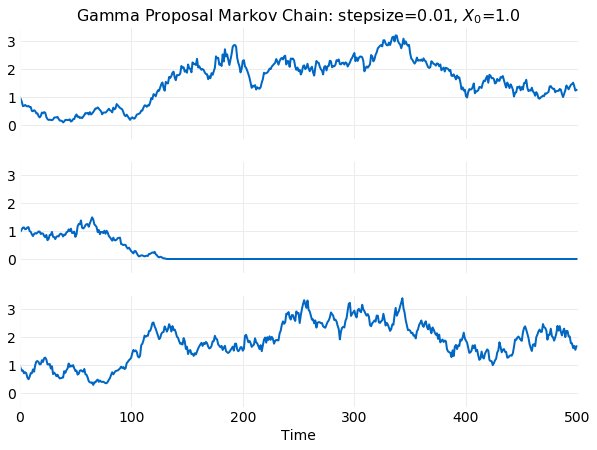
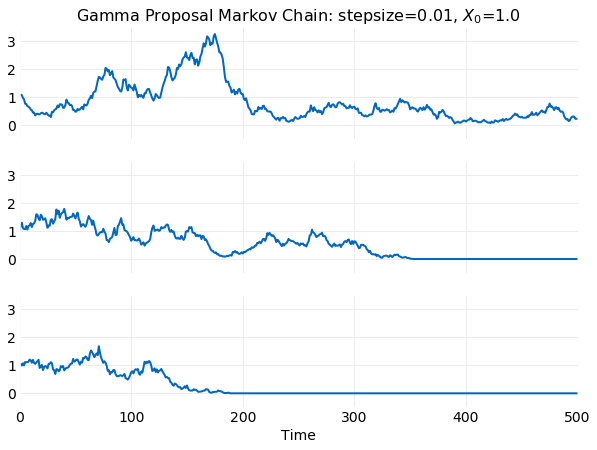
more plot updates

diff --git a/glyfish/gplot.py b/glyfish/gplot.py
@@ -1,13 +1,14 @@
 import numpy
 from matplotlib import pyplot
 from glyfish import stats
+from glyfish import config
 
-def pdf_samples(title, pdf, samples, xrange=None, ylimit=None):
-    figure, axis = pyplot.subplots(figsize=(12, 5))
-    axis.set_xlabel("X")
-    axis.set_ylabel("PDF")
+def pdf_samples(title, pdf, samples, post, plot, xrange=None, ylimit=None):
+    figure, axis = pyplot.subplots(figsize=(10, 7))
+    axis.set_xlabel(r"$X$")
     axis.set_title(title)
-    _, bins, _ = axis.hist(samples, 50, density=True, color="#336699", alpha=0.6, label=f"Sampled Distribution", zorder=5)
+    axis.set_prop_cycle(config.distribution_sample_cycler)
+    _, bins, _ = axis.hist(samples, 50, rwidth=0.8, density=True, label=f"Samples", zorder=5)
     if xrange is None:
         delta = (bins[-1] - bins[0]) / 500.0
         xrange = numpy.arange(bins[0], bins[-1], delta)
@@ -15,21 +16,24 @@ def pdf_samples(title, pdf, samples, xrange=None, ylimit=None):
     axis.set_xlim([xrange[0], xrange[-1]])
     if ylimit is not None:
         axis.set_ylim(ylimit)
-    axis.plot(xrange, sample_distribution, color="#A60628", label=f"Sampled Function", zorder=6)
+    axis.plot(xrange, sample_distribution, label=f"Target PDF", zorder=6)
     axis.legend()
+    config.save_post_asset(figure, post, plot)
 
 
-def acceptance(title, x, y, xlim):
-    figure, axis = pyplot.subplots(figsize=(12, 5))
+def acceptance(title, x, y, xlim, post, plot):
+    figure, axis = pyplot.subplots(figsize=(10, 7))
     axis.set_xlabel("Step Size")
     axis.set_ylabel("Acceptance %")
     axis.set_title(title)
     axis.set_xlim(xlim)
-    axis.set_ylim([0.1, 200.0])
-    axis.loglog(x, y, zorder=5, marker='o', color="#336699", markersize=15.0, linestyle="None", markeredgewidth=1.0, alpha=0.5, label="Simulation")
+    axis.set_ylim([2.0, 200.0])
+    axis.loglog(x, y, zorder=5, marker='o', markersize=15.0, linestyle="None", markeredgewidth=1.0, alpha=0.5, label="Simulation")
+    config.save_post_asset(figure, post, plot)
 
 
-def time_series(title, samples, time, ylim):
+
+def time_series(title, samples, time, ylim, post, plot):
     nplots = len(samples)
     figure, axis = pyplot.subplots(figsize=(12, 3))
     axis.set_title(title)
@@ -37,20 +41,22 @@ def time_series(title, samples, time, ylim):
     axis.set_xlim([time[0], time[-1] + 1])
     axis.set_ylim(ylim)
     axis.plot(time, samples, lw="1")
+    config.save_post_asset(figure, post, plot)
 
-def steps_size_time_series(title, samples, time, stepsize, acceptance, ylim, text_pos):
+def steps_size_time_series(title, samples, time, stepsize, acceptance, ylim, text_pos, post, plot):
     nplots = len(samples)
-    figure, axis = pyplot.subplots(nrows=nplots, ncols=1, sharex=True, figsize=(12, 3*nplots))
+    figure, axis = pyplot.subplots(nrows=nplots, ncols=1, sharex=True, figsize=(10, 3*nplots))
     axis[0].set_title(title)
     axis[-1].set_xlabel("Time")
-    bbox = dict(boxstyle='square,pad=1', facecolor="#FFFFFF", edgecolor="lightgrey")
+    bbox = dict(boxstyle='square,pad=1', facecolor="#FFFFFF", edgecolor="white", alpha=0.75)
     for i in range(nplots):
         axis[i].set_xlim([time[0], time[-1] + 1])
         axis[i].set_ylim(ylim)
-        axis[i].plot(time, samples[i], lw="1")
-        axis[i].text(text_pos[0], text_pos[1], f"stepsize={format(stepsize[i], '2.3')}, accepted={format(acceptance[i], '2.0f')}%", fontsize=13, bbox=bbox)
+        axis[i].plot(time, samples[i], lw="2")
+        axis[i].text(text_pos[0], text_pos[1], f"stepsize={format(stepsize[i], '2.3')}\naccepted={format(acceptance[i], '2.0f')}%", fontsize=13, bbox=bbox)
+    config.save_post_asset(figure, post, plot)
 
-def step_size_mean(title, samples, time, μ, stepsize):
+def step_size_mean(title, samples, time, μ, stepsize, post, plot):
     nplot = len(samples)
     nsample = len(time)
     figure, axis = pyplot.subplots(figsize=(12, 6))
@@ -62,8 +68,9 @@ def step_size_mean(title, samples, time, μ, stepsize):
     for i in range(nplot):
         axis.semilogx(time, stats.cummean(samples[i]), label=f"stepsize={format(stepsize[i], '2.3f')}", lw=2)
     axis.legend()
+    config.save_post_asset(figure, post, plot)
 
-def step_size_sigma(title, samples, time, σ, stepsize):
+def step_size_sigma(title, samples, time, σ, stepsize, post, plot):
     nplot = len(samples)
     nsample = len(time)
     figure, axis = pyplot.subplots(figsize=(12, 6))
@@ -75,8 +82,9 @@ def step_size_sigma(title, samples, time, σ, stepsize):
     for i in range(nplot):
         axis.semilogx(time, stats.cumsigma(samples[i]), label=f"stepsize={format(stepsize[i], '2.3f')}", lw=2)
     axis.legend()
+    config.save_post_asset(figure, post, plot)
 
-def step_size_autocor(title, samples, stepsize, npts):
+def step_size_autocor(title, samples, stepsize, npts, post, plot):
     nplot = len(samples)
     figure, axis = pyplot.subplots(figsize=(12, 9))
     axis.set_title(title)
@@ -86,3 +94,4 @@ def step_size_autocor(title, samples, stepsize, npts):
         ac = stats.autocorrelate(samples[i])
         axis.plot(range(npts), numpy.real(ac[:npts]), label=f"stepsize={format(stepsize[i], '2.3f')}")
     axis.legend()
+    config.save_post_asset(figure, post, plot)

diff --git a/hydrogen_notebooks/mcmc/metropolis_hastings/weibull_target/gamma_proposal.py b/hydrogen_notebooks/mcmc/metropolis_hastings/weibull_target/gamma_proposal.py
@@ -51,51 +51,51 @@ acceptance = 100.0*all_accepted/nsample
 
 # %%
 
-title = f"Weibull Distribution, Gamma Proposal, k={k}, λ={λ}"
-gplot.acceptance(title, stepsize, acceptance, [0.0005, 12.0])
+title = f"Weibull Distribution, Gamma Proposal: k={k}, λ={λ}"
+gplot.acceptance(title, stepsize, acceptance, [0.0005, 20.0], "metropolis_hastings_sampling", "gamma_proposal_acceptance")
 
 # %%
 
 sample_idx = 5
-title = f"Weibull Distribution, Gamma Proposal, Accepted {format(acceptance[sample_idx], '2.0f')}%, stepsize={format(stepsize[sample_idx], '2.3f')}"
-gplot.pdf_samples(title, target_pdf, all_samples[sample_idx])
+title = f"Weibull Distribution, Gamma Proposal: Accepted {format(acceptance[sample_idx], '2.0f')}%, stepsize={format(stepsize[sample_idx], '2.3f')}"
+gplot.pdf_samples(title, target_pdf, all_samples[sample_idx], "metropolis_hastings_sampling", "gamma_proposal_sampled_pdf-98")
 
 # %%
 
 sample_idx = 13
-title = f"Weibull Distribution, Gamma Proposal, Accepted {format(acceptance[sample_idx], '2.0f')}%, stepsize={format(stepsize[sample_idx], '2.3f')}"
-gplot.pdf_samples(title, target_pdf, all_samples[sample_idx])
+title = f"Weibull Distribution, Gamma Proposal: Accepted {format(acceptance[sample_idx], '2.0f')}%, stepsize={format(stepsize[sample_idx], '2.3f')}"
+gplot.pdf_samples(title, target_pdf, all_samples[sample_idx], "metropolis_hastings_sampling", "gamma_proposal_sampled_pdf-80")
 
 # %%
 
 sample_idx = 17
-title = f"Weibull Distribution, Gamma Proposal, Accepted {format(acceptance[sample_idx], '2.0f')}%, stepsize={format(stepsize[sample_idx], '2.3f')}"
-gplot.pdf_samples(title, target_pdf, all_samples[sample_idx])
+title = f"Weibull Distribution, Gamma Proposal: Accepted {format(acceptance[sample_idx], '2.0f')}%, stepsize={format(stepsize[sample_idx], '2.3f')}"
+gplot.pdf_samples(title, target_pdf, all_samples[sample_idx], "metropolis_hastings_sampling", "gamma_proposal_sampled_pdf-48")
 
 # %%
 
-sample_idx = 23
+sample_idx = 20
 title = f"Weibull Distribution, Gamma Proposal, Accepted {format(acceptance[sample_idx], '2.0f')}%, stepsize={format(stepsize[sample_idx], '2.3f')}"
-gplot.pdf_samples(title, target_pdf, all_samples[sample_idx])
+gplot.pdf_samples(title, target_pdf, all_samples[sample_idx], "metropolis_hastings_sampling", "gamma_proposal_sampled_pdf-07")
 
 # %%
 
-sample_idx = [5, 13, 17, 23]
+sample_idx = [5, 13, 20]
 title = f"Weibull Distribution Samples, Gamma Proposal, Stepsize comparison"
 time = range(51000, 51500)
 time_series_samples = [all_samples[i][time] for i in sample_idx]
 time_series_stepsize = stepsize[sample_idx]
 time_series_acceptance = acceptance[sample_idx]
-gplot.steps_size_time_series(title, time_series_samples, time, time_series_stepsize, time_series_acceptance, [0.0, 1.75], [51010, 0.185])
+gplot.steps_size_time_series(title, time_series_samples, time, time_series_stepsize, time_series_acceptance, [-0.2, 1.75], [51010, 0.15], "metropolis_hastings_sampling", "gamma_proposal_time_series_stepsize_comparison")
 
 # %%
 
 μ = stats.weibull_mean(5.0, 1.0)
-title = f"Weibull Distribution, Gamma Proposal, sample μ convergence stepsize comparison"
+title = f"Weibull Distribution, Gamma Proposal, Sample μ Convergence"
 time = range(nsample)
 mean_samples = [all_samples[i][time] for i in sample_idx]
 mean_stepsize = stepsize[sample_idx]
-gplot.step_size_mean(title, mean_samples, time, μ, mean_stepsize)
+gplot.step_size_mean(title, mean_samples, time, μ, mean_stepsize, "metropolis_hastings_sampling", "gamma_proposal_mean_convergence_stepsize_comparison")
 
 # %%
 
@@ -104,7 +104,7 @@ title = f"Weibull Distribution, Gamma Proposal, sample σ convergence stepsize c
 time = range(nsample)
 sigma_samples = [all_samples[i][time] for i in sample_idx]
 sigma_stepsize = stepsize[sample_idx]
-gplot.step_size_sigma(title, sigma_samples, time, σ, sigma_stepsize)
+gplot.step_size_sigma(title, sigma_samples, time, σ, sigma_stepsize, "metropolis_hastings_sampling", "gamma_proposal_sigma_convergence_stepsize_comparison")
 
 # %%
 
@@ -113,4 +113,4 @@ auto_core_range = range(20000, 50000)
 autocorr_samples = [all_samples[i][auto_core_range] for i in sample_idx]
 autocorr_stepsize = stepsize[sample_idx]
 nplot = 200
-gplot.step_size_autocor(title, autocorr_samples, autocorr_stepsize, nplot)
+gplot.step_size_autocor(title, autocorr_samples, autocorr_stepsize, nplot, "metropolis_hastings_sampling", "gamma_proposal_autocorrelation_convergence_stepsize_comparison")

diff --git a/hydrogen_notebooks/mcmc/metropolis_hastings/weibull_target/proposal_distribution_performance_comparison.py b/hydrogen_notebooks/mcmc/metropolis_hastings/weibull_target/proposal_distribution_performance_comparison.py
@@ -15,10 +15,14 @@ pyplot.style.use(config.glyfish_style)
 
 # %%
 
+k = 5.0
+λ = 1.0
+target_pdf = stats.weibull(k, λ)
+
 nsample = 100000
 x0 = 1.0
 npts = 25
-stepsize = 10**numpy.linspace(-5.0, 1.0, npts)
+stepsize = 10**numpy.linspace(-3.0, 1.0, npts)
 x0 = 1.0
 
 # %%
@@ -35,7 +39,25 @@ gamma_samples = numpy.array(gamma_samples)
 gamma_accepted = numpy.array(gamma_accepted)
 gamma_acceptance = 100.0*gamma_accepted/nsample
 
+# perform mimulations that scan the step size
+
+normal_samples = []
+normal_accepted = []
+for i in range(0, len(stepsize)):
+    samples, accepted = mh.metropolis_hastings(target_pdf, mh.normal_proposal, mh.normal_generator, stepsize[i], nsample=nsample, x0=x0)
+    normal_samples.append(samples)
+    normal_accepted.append(accepted)
+
+normal_samples = numpy.array(normal_samples)
+normal_accepted = numpy.array(normal_accepted)
+normal_acceptance = 100.0*normal_accepted/nsample
+
 # %%
 
-title = f"Weibull Distribution, Gamma Proposal, k={k}, λ={λ}"
-gplot.acceptance(title, stepsize, gamma_acceptance, [0.0005, 12.0])
+title = f"Weibull Distribution, Gamma Proposal: k={k}, λ={λ}"
+gplot.acceptance(title, stepsize, gamma_acceptance, [0.0005, 20.0], "metropolis_hastings_sampling", "gamma_proposal_acceptance")
+
+# %%
+
+title = f"Weibull Distribution, Normal Proposal: k={k}, λ={λ}"
+gplot.acceptance(title, stepsize, normal_acceptance, [0.0005, 20.0], "metropolis_hastings_sampling", "normal_proposal_acceptance")

diff --git a/hydrogen_notebooks/mcmc/metropolis_hastings/distributions.py b/hydrogen_notebooks/mcmc/metropolis_hastings/distributions.py
@@ -70,7 +70,7 @@ for i in range(3):
     axis[i].set_xlim([0, nsamples])
     axis[i].set_ylim([-30.0, 30.0])
     axis[i].set_yticks([-20.0, -10.0, 0.0, 10.0, 20.0])
-    axis[i].plot(range(nsamples), x, lw="1")
+    axis[i].plot(range(nsamples), x, lw="2")
 
 config.save_post_asset(figure, "metropolis_hastings_sampling", "normal_proposal_time_series")
 

diff --git a/hydrogen_notebooks/mcmc/metropolis_hastings/weibull_target/stepsize_comparison.py b/hydrogen_notebooks/mcmc/metropolis_hastings/weibull_target/stepsize_comparison.py
@@ -40,7 +40,7 @@ def acceptance_regress(x, y):
 def acceptance_fit(x, slope, y0):
     return 10**(slope*x + y0)
 
-def run_sumulation(stepsize, target_pdf, proposal, generator, nsample, x0):
+def run_simulation(stepsize, target_pdf, proposal, generator, nsample, x0):
     all_samples = []
     all_accepted = []
     for i in range(0, len(stepsize)):
